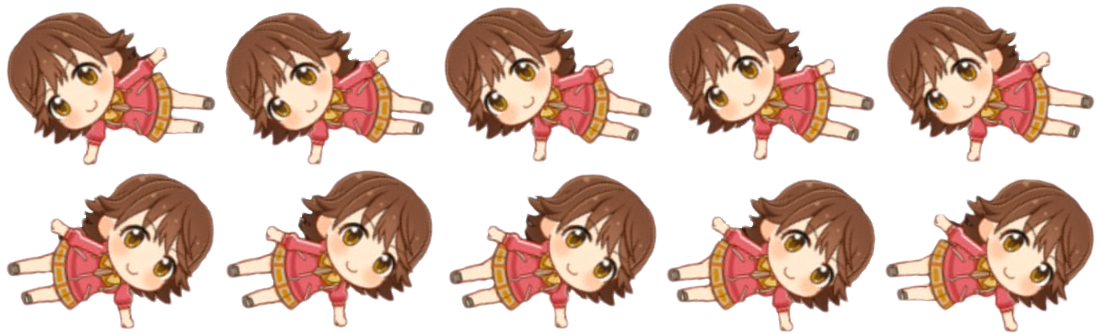
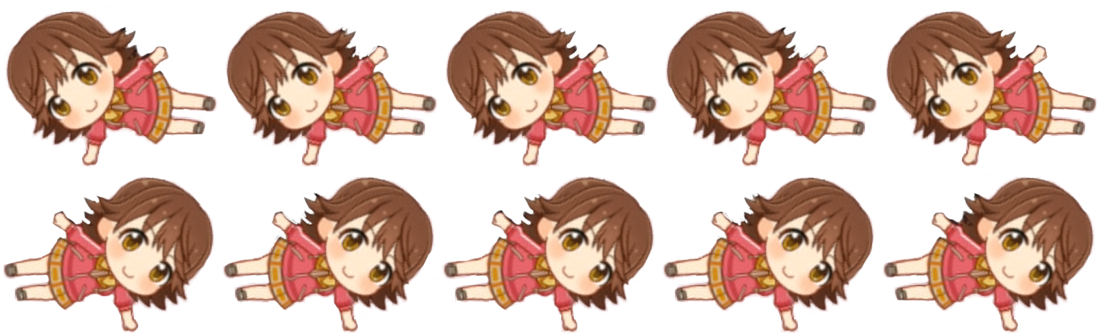
난이도 변수 생성
+ bat의 update를 setinterval로 바꿈

diff --git a/test.html b/test.html
@@ -48,7 +48,13 @@ var viewRank = function(){
 <script>
 
 var player;
-var gameStart = function(){
+var level;
+setInterval(function(){
+  Camera.set();
+}, 10);
+
+var gameStart = function(lv){
+  level = lv || 1;
 
   for(var i in sprites){
     sprites[i].dead();
@@ -57,8 +63,8 @@ var gameStart = function(){
 
   player = new Sprite(function(my){
 
-    my.width = 34;
-    my.height = 50;
+    my.width = 32;
+    my.height = 40;
 
     my.gravity = true;
     my.tag = 'player';
@@ -68,10 +74,10 @@ var gameStart = function(){
     my.animate('img/uzuki.png', 133, 191, {
       left: 2,
       leftRun: 3,
-      leftJump: 3,
+      leftJump: 4,
       right: 0,
       rightRun: 1,
-      rightJump: 1
+      rightJump: 4
     }, 8);
 
     my.onDead(function(){
@@ -118,18 +124,18 @@ var gameStart = function(){
 
   }).draw(100,200);
 
-
+/*
   new Weed(600,300);
-  //new Weed(900,300);
-  new Weed(1200,300);
+  new Weed(900,300);
+  new Weed(1200,300);*/
   new Bat(800,400);
-
+/*
   new Mouse(500,400,20);
   new Mouse(700,400,15);
   new Mouse(300,400);
   new Mouse(300,400,17,30,30);
   new Beetle(4450, 400);
-
+*/
   new Piece(1300, 450);
   new Piece(3150, 300);
   new Piece(4100, 200);
@@ -138,41 +144,8 @@ var gameStart = function(){
   Camera.target = player;
 };
 
-
-
-
-
-var back1 = new Sprite(function(my){
-  my.width = 800;
-  my.height = 600;
-  my.collision = false;
-  my.tag = 'background';
-  my.alp = 1;
-
-  my.renderer(function(){
-    my.ani.img = new Image();
-    my.ani.img.src = 'img/background1.png';
-    ctx.drawImage(my.ani.img, my.x, my.y, my.width, my.height);
-
-    my.ani.img2 = new Image();
-    my.ani.img2.src = 'img/intro.png';
-    ctx.drawImage(my.ani.img2, my.x, my.y, my.width, my.height);
-  });
-
-  my.draw(0, 0);
-});
-document.body.onclick = (function(){
-  var click = false;
-  return function(){
-    if( click ) return;
-
-    click = true;
-    gameStart();
-    setInterval(function(){
-      Camera.set();
-    }, 10);
-  }
-})();
+if(confirm( 'play game?' ))
+  gameStart();
 
 </script>
 </html>

diff --git a/monster/Bat.js b/monster/Bat.js
@@ -2,21 +2,31 @@
 var Bat = function(x, y, speed){
   var bat = new Sprite(function(my){
 
-    my.width = 50;
-    my.height = 33;
+    my.width = 44;
+    my.height = 32;
     my.moveSpeed = speed || 10;
     my.tag = 'monster';
+    my.jump = false;
 
     my.gravity = false;
     var directSW = false;
 
-    my.update(function(){
+    my.animate('img/mio.png', 220, 167, {
+      left: 0,
+      leftRun: 0,
+      leftJump: 0,
+      right: 0,
+      rightRun: 1,
+      rightJump: 0
+    }, 4);
+
+    my.setInterval(function(){
       if(directSW == false){
         my.state = 'rightwalk';
       }else if(directSW == true){
         my.state = 'leftwalk';
       }
-    });
+    }, 100);
 
     my.setInterval(function(){
       if(directSW == false){
@@ -25,15 +35,6 @@ var Bat = function(x, y, speed){
         directSW = false;
       }
     }, 1000);
-
-    my.animate('img/mio.png', 220, 167, {
-      left: 0,
-      leftRun: 0,
-      leftJump: 0,
-      right: 1,
-      rightRun: 1,
-      rightJump: 1
-    }, 5);
 
     my.remove('crashes');
 
@@ -69,5 +70,5 @@ var Bat = function(x, y, speed){
 
   }).draw(x, y);
 
-  return Bat;
+  return bat;
 };

diff --git a/map/Map.js b/map/Map.js
@@ -226,6 +226,8 @@ var initMap = function(){
   drawGroup(ground, 6,  'right', { x: 5000, y: 225, d: 100 });
   drawGroup(inground, 4,'up',    { x: 5900, y: 375 });
   drawGroup(branch, 2,  'up',    { x: 5850, y: 310, d: 65 });
+
+  // stage 3
   drawGroup(Sground, 5, 'right', { x: 5950, y: 225 });
 
 };

diff --git a/lib/engine.js b/lib/engine.js
@@ -342,7 +342,7 @@ this.Sprite = function(callback){
           my.ani.frame = frame - 1 ;
         }
       }
-    }, UPDATE_TIME*10);
+    }, 100);
 
     my.renderer(function(){
 
